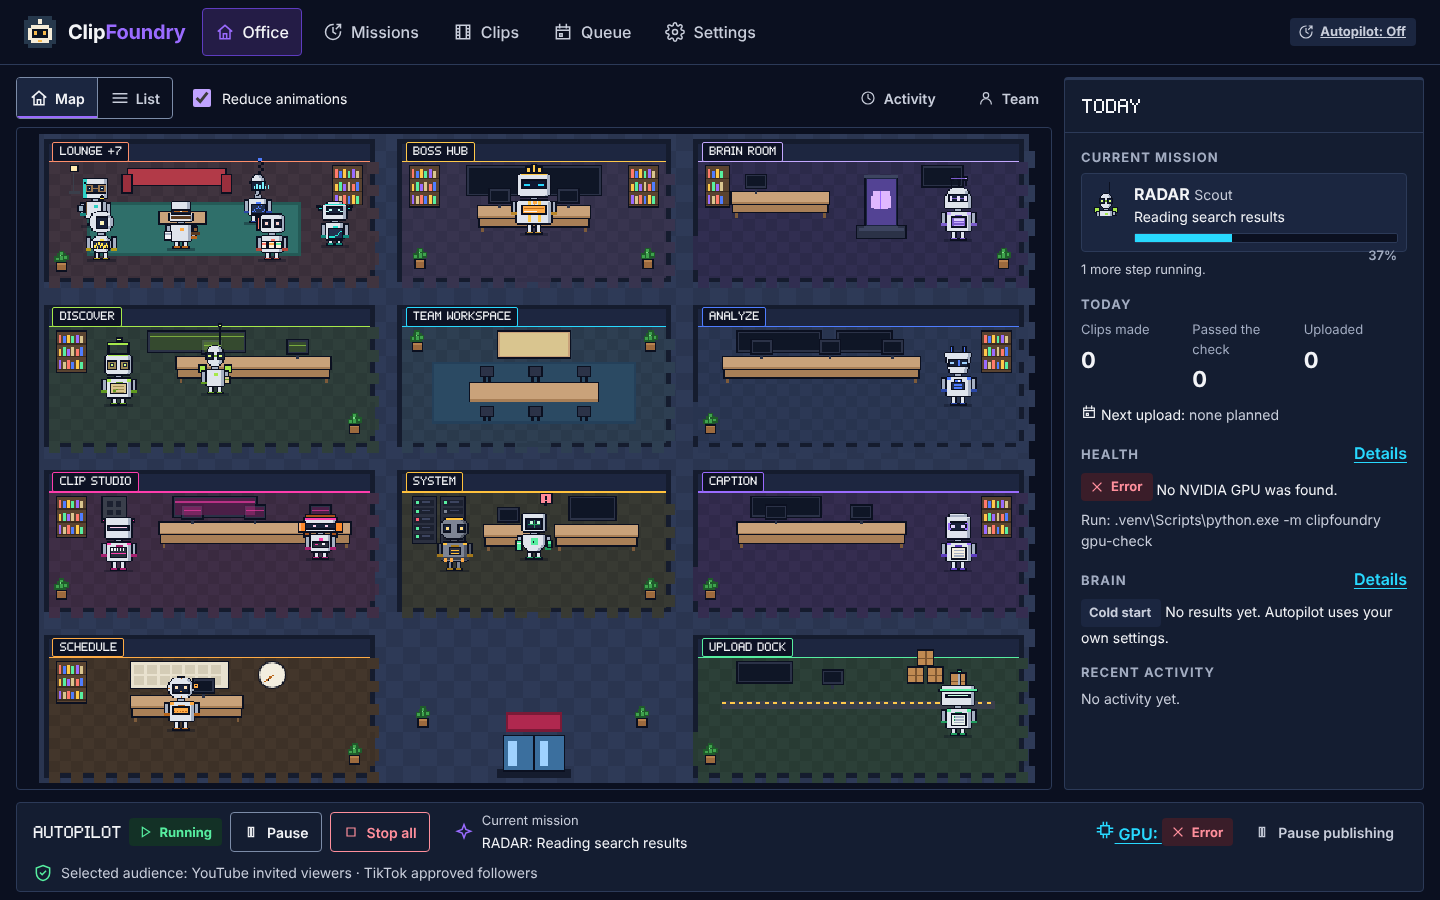
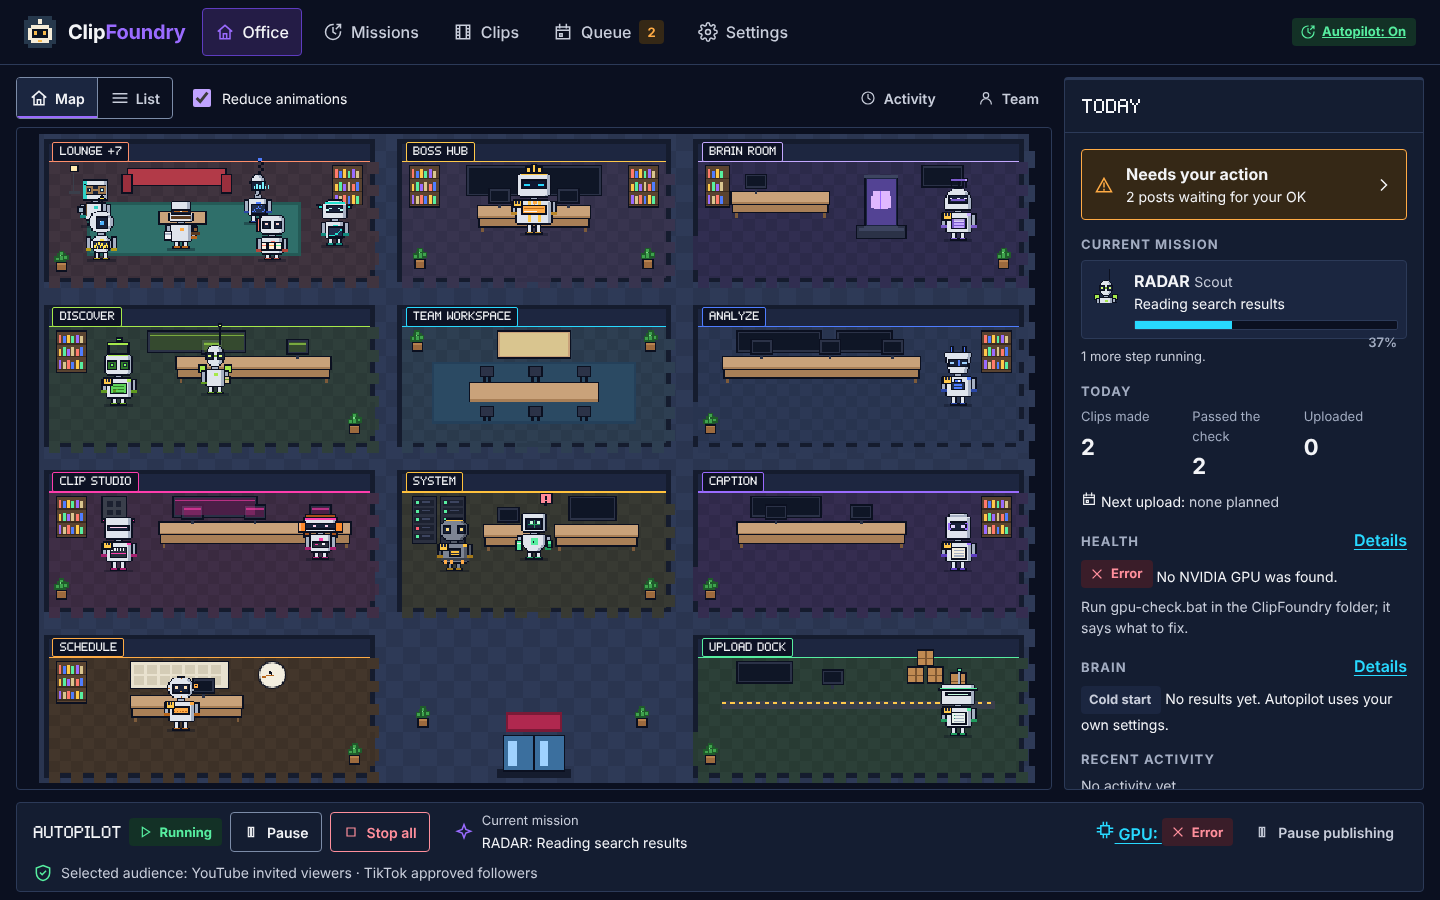
Docs for the review round: handoff, changelog, test log, screenshots
Records the 2026-10-08 review round of PR #14: AGENTS.md decisions (public video
discovery stays on, the beginner flow passes with it), docs/OFFICE.md (health,
Test connection, Brain audiences and guards), AI_CHANGELOG.md and the JSONL
checkpoint, AI_HANDOFF.md, the implementation status matrix and test log, and the
office screenshots re-taken by the sandbox browser run.

Claude-Session: https://claude.ai/code/session_01Np3o5HVp6KDTFccbFjReEz

diff --git a/docs/IMPLEMENTATION_STATUS.md b/docs/IMPLEMENTATION_STATUS.md
@@ -344,13 +344,19 @@ current platform**, **Incomplete**.
 | Selected audience on every upload path (no public, unlisted, Everyone; old public posts held; approvals bound to the audience stamp) | Implemented and tested | `tests/test_audience.py`, `test_autopilot_publish.py`, `test_youtube.py`, `test_tiktok.py`, sandbox complete loop |
 | YouTube upload as Private without `publishAt` | Implemented and tested (fake YouTube); live verification pending | needs a real upload on the owner's account |
 | YouTube viewer invitations | Unsupported by the current platform (no API) | handoff: the owner shares in YouTube Studio and presses *I shared it*; labeled as the owner's confirmation |
-| TikTok Direct Post to followers or friends | Needs credentials/user action | needs TikTok's audit of the owner's developer app; until then "Only me" is staging and the clip becomes a ready-to-post package |
+| TikTok Direct Post to followers or friends | Needs credentials/user action | needs TikTok's audit of the owner's developer app, unlikely for a personal tool that reposts other platforms' videos (TikTok's guidelines, rechecked 2026-10-08); until then "Only me" is staging and the clip becomes a ready-to-post package |
+| TikTok ready-to-post package | Implemented and tested | the post's page: download, copy caption, steps, then *Link the post…* or *I posted it, no link* (`test_a_package_posted_without_a_link_is_recorded_as_your_word`); branded content Friends only; a full inbox holds TikTok posts for a day |
+| Approvals bound to the connected account | Implemented and tested | `test_approvals_and_automatic_publishing_stay_with_the_account_they_were_given_for` |
 | TikTok results for follower-only posts | Unsupported by the current platform | TikTok's video list covers public posts only; Clips → Test feedback instead |
 | YouTube results for a private group | Implemented; live verification pending | the Data API counts are read; the Analytics API may report little for a small group |
 | Office: cast registry (1 + 8 + 16, CORE separate), event feed with cursor, reports, decisions, health, controls | Implemented and tested | `tests/test_office.py`; `e2e/sandbox/robot-office.spec.ts` (placement, carry and review, decision reaction, old events ignored, paused, lost connection, Reduce animations, 1280×720 and 1366×768 fit, no sideways scroll at 683 and 390 px) |
 | Office screens, Team, gallery, Integrations, Test feedback, Dev Log, new navigation | Implemented and tested | read-only `e2e` suite and sandbox flows; screenshots in `design/robot-office/screenshots` |
-| Distinct robots (25, four directions, all poses) | Implemented; owner's visual review pending | `design/robots/contact-sheet.png`; drawn in code from the reference sheets, compared by eye only |
-| Brain: provenance, null ≠ 0, idempotent imports, corrections, cohorts, 30-clip / 10% guards, rollback, clip length used by the next videos | Implemented and tested (synthetic data) | `tests/test_brain.py`; real learning needs 30 real clips from the owner's viewers |
+| Distinct robots (25, four directions, all poses) | Implemented; owner's visual review pending | `design/robots/contact-sheet.png`; compared with the reference sheets on 2026-10-08: crown badge for COMMAND and the managers, TRACKER, SPARK and PATCH colors fixed; simplified details listed in the review report |
+| Brain: provenance, null ≠ 0, idempotent imports, corrections, cohorts, 30-clip / 10% guards, rollback, clip length used by the next videos | Implemented and tested (synthetic data) | `tests/test_brain.py` (21 tests; on 2026-10-08: uploads nobody could watch excluded, maturity from sharing, per-platform rollback, rollback not undone, 20 per side, identical results inconclusive); real learning needs 30 real clips from the owner's viewers |
+| Brain: distinct people and one dominant video | Incomplete | plays are not people; one video can supply most clips once 5 videos exist; needs the owner's rule |
+| Health readings, Test connection, rate-limit cards | Implemented and tested (fake platforms) | `tests/test_office_health.py`; a real check needs the owner's accounts |
+| Trend and Source Score coverage and confidence; specific media-access reasons | Implemented and tested | `tests/test_scores_and_access.py` |
+| Rework routed to the responsible stage; audio/video sync check; Queue states retrying, waiting for results, platform-verified audience; experiment framework | Incomplete | not in this version |
 | Optional NVIDIA text AI | Implemented and tested (fake transport); Needs credentials/user action for live use | `tests/test_nvidia.py`; no real request was made, NVIDIA's current terms were not read live |
 | GPU transcription and rendering on the RTX 3050 | Implemented; live verification pending | **GPU runtime not verified here** (no NVIDIA GPU in the cloud machine). On the PC: `gpu-check.bat`, or `.venv\Scripts\python.exe -m clipfoundry gpu-check` in the ClipFoundry folder |
 | Twitch, Kick, Reddit, X, Instagram and podcast discovery connectors | Incomplete | not in this version (the capability matrix says so); a pasted public link still goes through the link importer where supported |
@@ -363,9 +369,10 @@ transcript instead of Whisper, real ffmpeg rendering, no GPU): one Start discove
 final check, uploads to the fake YouTube as Private (Needs you then asks to share it privately), reads results,
 changes nothing with too few of them (2 of 30 posts with real numbers), waits for a stream link across a worker
 restart and records it once the stream starts, with no duplicate upload, and the office shows the running,
-waiting, restarted and paused states. The beginner flow passes with
-public video discovery off; with the `eff96fb` default (on) it fails at its old expectation that uncovered videos are
-never clipped (it fails the same way on `eff96fb` itself); that waits for the owner's public-video decision.
+waiting, restarted and paused states. The beginner flow passes with public video discovery on (the owner's decision
+of 2026-10-08): public videos are clipped on the PC and pass the final check, are never planned or posted, a video
+that cannot be downloaded is reported, the beginner chooses who watches, and an agreement makes a creator's video
+plannable.
 
 ## Plan (highest priority first)
 
@@ -413,7 +420,9 @@ never clipped (it fails the same way on `eff96fb` itself); that waits for the ow
 27. [x] The robot office screens, Team and gallery, Integrations, Test feedback, Dev Log, new navigation, docs and
     handoff (2026-10-07/08, PR #14).
 28. [ ] The owner's review of PR #14 and the checks on the PC below (GPU, real uploads, Who watches, the office look).
-29. [ ] The owner's public-video decision; then align `e2e/sandbox/beginner-flow.spec.ts` with it.
+29. [x] The owner's public-video decision (keep it, 2026-10-08); `e2e/sandbox/beginner-flow.spec.ts` aligned.
+30. [x] Review round of 2026-10-08 (`cf54204`): gaps against the master prompt, TikTok package flow, account-bound
+    approvals, Brain guards, health and Test connection, score confidence, media-access reasons, robots.
 
 ## Test log
 
@@ -556,6 +565,12 @@ never clipped (it fails the same way on `eff96fb` itself); that waits for the ow
 | robot office (2026-10-08) | `robot-office.spec.ts` and `zero-touch-loop.spec.ts` again after the fix | 5 passed (8.1 min) |
 | robot office (2026-10-08) | `beginner-flow.spec.ts` on `eff96fb` itself, in a separate worktree | failed at *nothing uncovered is ever clipped*: the same failure exists before this work (public video discovery default on) |
 | robot office (2026-10-08) | `beginner-flow.spec.ts` on this branch with `autopilot_public_videos` turned off by a temporary, uncommitted line | 1 passed (1.0 min) |
+| review round (2026-10-08) | `beginner-flow.spec.ts` on this branch with public video discovery on (the default), after the test learned to confirm who watches in Settings → Integrations | 1 passed (4.0 min) |
+| review round (2026-10-08) | new suites `test_brain.py` (21, 7 new), `test_office_health.py` (9), `test_scores_and_access.py` (29), the account-binding and START-twice tests | pass; the new ones failed before their fixes |
+| review round (2026-10-08) | `pytest -m "not slow"` on `cf54204` | 597 passed, 7 slow deselected (329 s) |
+| review round (2026-10-08) | `pytest -m slow` on `cf54204` | 7 passed (724 s); real ffmpeg and eSpeak NG, imported transcripts, fake platforms, no GPU |
+| review round (2026-10-08) | `npx tsc --noEmit` and `npm run build` in `frontend/` | pass; committed `dist/` (index-C1kfHSbU.js) |
+| review round (2026-10-08) | `npm run test:sandbox` on `cf54204` (Chromium at `/opt/pw-browsers/chromium`) | 9 passed (10.1 min): beginner flow, motion 3, robot office 4, complete loop |
 
 ## Checklist for the user's machine
 

diff --git a/docs/OFFICE.md b/docs/OFFICE.md
@@ -101,9 +101,13 @@ when paused). Each one calls the same code as the Missions buttons, so no check 
 
 ## Health
 
-`GET /api/office/health` (`clipfoundry/office/health.py`): the scheduler, the oldest waiting job, the GPU, ffmpeg,
-disk space, the database, the accounts, audience incidents and API quotas, each Healthy, Degraded, Error or Unknown
-with the reason and what to do. The overall status is the worst reading; Unknown appears only when nothing is worse.
+`GET /api/office/health` (`clipfoundry/office/health.py`): the scheduler, the oldest waiting job, discovery, the
+GPU, ffmpeg, disk space, the database, the accounts, audience incidents and API quotas, each Healthy, Degraded, Error
+or Unknown with the reason and what to do. A GPU error newer than the last GPU transcription is Error; a CPU fallback
+is Degraded. No connected account is information, not a problem. Discovery is Error when Autopilot is on with nowhere
+to look, and Degraded when the last search is more than twice its period overdue. The overall status is the worst
+reading that counts. When the office loses its connection, every reading shows *Unknown — not updating* instead of
+its last value.
 
 ## Who may watch an upload (selected audience)
 
@@ -139,7 +143,11 @@ retries, resumed uploads, and posts planned before this version.
 Settings → Integrations shows, per connection, three separate things: whether this version implements a capability,
 whether an account or key is connected, and whether the capability is available now. A connected account does not
 make every capability available, and signing in never grants downloads or full analytics. The registry is
-`clipfoundry/office/capabilities.py` (`GET /api/integrations` returns it with the cards):
+`clipfoundry/office/capabilities.py` (`GET /api/integrations` returns it with the cards). Each connected account's
+card has **Test connection** (`POST /api/integrations/youtube/test` or `/tiktok/test`): one read with the stored
+account (YouTube `channels.list`, 1 quota unit; TikTok `creator_info`, or user info without Direct Post) that never
+uploads or changes anything. The card shows the last successful check, a failed check's reason and what to do, and a
+platform's wait (*Rate limited until*) read from where the code records it:
 
 | Platform | Capability | State | What it means |
 | --- | --- | --- | --- |
@@ -157,7 +165,7 @@ make every capability available, and signing in never grants downloads or full a
 | TikTok | Reads titles and numbers | Implemented | Creator and title from TikTok's public embed endpoint; no view counts. |
 | TikTok | Transcript | On this PC | Made on this PC with Whisper. |
 | TikTok | Gets the video file | Implemented | Only where the video is accessible to the link importer; nothing is bypassed. |
-| TikTok | Uploads | Needs platform approval | Direct Post to your followers needs TikTok's app audit. Without it ClipFoundry sends a draft to your TikTok inbox or prepares a ready-to-post package. |
+| TikTok | Uploads | Needs platform approval | Direct Post to your followers needs TikTok's app audit, and TikTok's guidelines turn away personal tools and apps that repost other platforms' videos, so expect a refusal. Inbox drafts also need TikTok to approve the app (at most 5 waiting). Otherwise ClipFoundry prepares a ready-to-post package that you post in the TikTok app. |
 | TikTok | Who can watch | Needs platform approval | Followers or friends on a private account (audited apps); an unaudited app can only post 'Only me', which is staging, not a test. |
 | TikTok | Your OK | Implemented | Your OK on every post (TikTok requires it). |
 | TikTok | Checks the result | Implemented | The post's publish status is read back; follower-only posts may not return a link. |
@@ -239,14 +247,25 @@ transcript after it).
   zero. Imports are previewed, then imported once; the same reading entered twice counts once, and a correction
   keeps the earlier values. One answer per tester per clip. Mirrored YouTube API readings follow the 30-day rule.
 * **Audiences kept apart.** Results are grouped by platform, audience (selected viewers, only you, earlier public
-  posts) and audience-group version. Only selected-viewer results may change a strategy, and only for that group.
-* **Guards.** A strategy changes only with at least 30 mature clips (48 hours old) from at least 5 videos in one
-  group, with at least 10 on each side of the comparison; it moves at most 10% per update
-  (`brain_min_clips` ≥ 30, `brain_max_step` ≤ 0.10, Settings → Advanced → Brain); it waits for results of the new
-  setting before moving again, and rolls back when later results are worse. You can pause it, roll back a change or
-  reset it. CORE cannot override privacy, credentials, cost limits, stop controls or the safety checks.
+  posts, or *unconfirmed*: meant for your viewers but they cannot watch it yet, such as a Private upload nobody was
+  invited to or a TikTok package not posted yet) and audience-group version. Only selected-viewer results may change
+  a strategy, and only for that group. A post counts as mature 48 hours after your viewers could watch it (the upload,
+  or later when you said you shared it or linked the post you made yourself).
+* **Guards.** A strategy changes only with at least 30 mature clips from at least 5 videos in one group, each with
+  at least `brain_min_views` views, and at least 20 clips on each side of the comparison (`MIN_ARM`); identical
+  results on a side count as inconclusive. It moves at most 10% per update (`brain_min_clips` ≥ 30,
+  `brain_max_step` ≤ 0.10, Settings → Advanced → Brain); it waits for 10 clips with results of the new setting before
+  moving again, and rolls back when later results are worse. Each platform keeps its own strategy and rolls back on
+  its own; a learned clip length is used only when every enabled platform learned the same value. You can pause it,
+  roll back a change or reset it, and the same results cannot undo your rollback or reset (the next change waits for
+  10 new clips). CORE cannot override privacy, credentials, cost limits, stop controls or the safety checks.
+* **Known limits.** "Views" are plays, not people: 10 plays by 2 people pass the views threshold, and the same 3
+  testers rating many clips count as many results. The count needs 5 different videos, but one video can still
+  supply most of the clips. Both are product decisions (a rule for how many different people), not yet made.
 * **What it changes.** The clip length the next videos Autopilot starts are cut for. The older learner
-  (`learner.py`, score weights) follows the same 30-post and 10% guards.
+  (`learner.py`, posting times, styles and score weights) follows the same 30-post, 10%, views and 5-video guards,
+  but still accepts readings from 20 hours on (not 48) and treats posts without an audience-group number as the
+  current group.
 
 ## Optional NVIDIA AI
 

diff --git a/AI_HANDOFF.md b/AI_HANDOFF.md
@@ -15,10 +15,11 @@ results, and NVIDIA's hosted AI is an optional extra. Local-first; the GPU path 
 
 * `claude/wonderful-ritchie-909tq3` is the default ("usual") branch, at `eff96fb` (public video discovery, pushed
   from outside the project on 2026-10-03).
-* `claude/project-thread-vw1n9y` (draft PR #14) holds this build: `26f6b8f` (backend) and the commit that adds this
-  file (screens, docs). Not merged; merging needs the owner's word.
-* `codex/retro-robot-autopilot` and `claude/ecstatic-shannon-wb1zq1` are unmerged outside work. Don't merge them
-  without the owner's decision on public videos.
+* `claude/project-thread-vw1n9y` (draft PR #14) holds this build: `26f6b8f` (backend), `f71238c` (screens, docs),
+  `cf54204` (the review round of October 8) and its docs commit. Not merged; merging needs the owner's word after
+  the PC checks.
+* `codex/retro-robot-autopilot` and `claude/ecstatic-shannon-wb1zq1` are unmerged outside work. The owner did not ask
+  for them to be merged.
 
 ## Architecture in one screen
 
@@ -34,11 +35,9 @@ results, and NVIDIA's hosted AI is an optional extra. Local-first; the GPU path 
 
 ## Verified here (cloud machine: Linux, Chromium, no GPU, no accounts)
 
-* `pytest -m "not slow"`: 545 passed. `pytest -m slow`: 7 of 7 after updating two tests that still expected
-  `publishAt`. Details in the test log of `docs/IMPLEMENTATION_STATUS.md`.
-* Sandbox browser tests (`cd e2e && npm run test:sandbox`, Chromium at `/opt/pw-browsers/chromium`): robot office 4
-  of 4, motion 3 of 3, complete loop 1 of 1 passed. Beginner flow: fails at its rights expectation (below).
-* Read-only browser suite against a sandbox: passed after two locator fixes (see the test log).
+* On `cf54204`: `pytest -m "not slow"` 597 passed; `pytest -m slow` 7 passed (724 s); sandbox browser tests
+  (`cd e2e && npm run test:sandbox`, Chromium at `/opt/pw-browsers/chromium`) 9 passed (10.1 min), including the
+  beginner flow with public video discovery on. Details in the test log of `docs/IMPLEMENTATION_STATUS.md`.
 * Screenshots: `design/robot-office/screenshots/` (README there says which are real and which controlled).
 
 ## Not verified (must be checked on the owner's PC)
@@ -50,12 +49,15 @@ NVIDIA requests and NVIDIA's current terms, Windows fonts and display scaling. C
 
 ## Known problems and open decisions
 
-* **Public video discovery** (`autopilot_public_videos`, default on since `eff96fb`) clips videos nobody gave reuse
-  rights to (they are never scheduled or posted). The owner has not confirmed this design in the project.
-  `e2e/sandbox/beginner-flow.spec.ts` still expects such videos never to be clipped: it fails on `eff96fb` and on
-  this branch, and passes with the setting off. Align the test after the owner decides.
-* TikTok Direct Post to followers needs TikTok's audit, which a personal tool may not get; the ready-to-post package
-  and inbox draft are the fallback.
+* **Public video discovery** stays on (owner, 2026-10-08): public videos are clipped on the PC, never planned or
+  posted without reuse coverage. The beginner flow tests exactly that.
+* TikTok: the audit for Direct Post is unlikely (TikTok's guidelines turn away personal tools and apps that repost
+  other platforms' videos); inbox drafts need app approval too. The ready-to-post package, posted by the owner and
+  linked or marked posted on the post's page, is the realistic path.
+* Open gaps against the master prompt (report of 2026-10-08 in the project files and `IMPLEMENTATION_STATUS.md`):
+  rework does not return to the responsible stage, no audio/video sync check, the Queue does not show retrying,
+  waiting-for-results or platform-verified audience states, no general experiment framework, the Brain's
+  plays-versus-people and one-dominant-video limits, the learner's 20-hour readings, simplified robot details.
 * Not built from the prompt: discovery connectors for Twitch, Kick, Reddit, X, Instagram and podcasts; Google Trends
   (no supported API); preview-based screening before download. The capability matrix says so in the app.
 * The website (`docs/legal`) is not deployed; that needs the owner's OK. The privacy page was updated for this build.
@@ -69,7 +71,8 @@ dependencies, keep `e2e/tests` read-only.
 
 ## Next useful work
 
-1. The owner reviews PR #14 and runs the PC checklist (GPU check, one real Private upload, Who watches).
-2. The public-video decision, then the beginner-flow test.
+1. The owner runs the PC test steps (`/mnt/project-files/clipfoundry/pc-test-steps-pr14.md` in the project files:
+   a separate copy with its own data, no accounts) and reviews PR #14.
+2. The open gaps above, in the order the owner picks.
 3. If the owner wants them: more discovery connectors where a platform offers a supported API, and a cheap preview
    screen (hook and payoff from a short excerpt) before the full download.

diff --git a/AI_CHANGELOG.md b/AI_CHANGELOG.md
@@ -7,6 +7,37 @@ read-only in Settings → Advanced → Dev Log). Work before October 7, 2026 is 
 
 Commit ids are snapshots of a branch at the time of writing; fetch before relying on them.
 
+## 2026-10-08 · PR #14 review round
+
+* **Tool:** Claude Code (cloud session). **Branch:** `claude/project-thread-vw1n9y` (draft PR #14), on top of
+  `f71238c`. **Result commits:** `cf54204` (code) and the commit that adds this entry (docs).
+* **What changed**
+  * Public video importing stays on (owner, 2026-10-08). The beginner browser test now expects public videos to be
+    clipped on the PC, to pass the final check and never to be planned or posted; the beginner answers *who
+    watches* before anything is planned. A rule recorded after a video was clipped now reaches that video.
+  * TikTok: a post-it-yourself page for the ready-to-post package (download, copy caption, steps, then link the post
+    or mark it posted, `POST /scheduled/{id}/posted`); branded content only for Friends; a full inbox (5 pending
+    drafts) holds TikTok posts for a day; labels that don't claim who could see a post. *I shared it* updates the
+    post itself; held public posts can be sent to the selected viewers from their page.
+  * Approvals and the automatic-publishing permission name the connected account; another account connected means a
+    new approval. START pressed again before its work ran queues nothing new.
+  * Brain and learner: uploads nobody else could watch are not evidence (*unconfirmed*), maturity counts from
+    sharing, each platform rolls back on its own, a rollback or reset is not undone by the same results, 20 clips
+    per side, identical results are inconclusive, the learner needs views and 5 videos.
+  * Health: GPU errors and CPU fallback, accounts as information, *Unknown — not updating* when the feed is lost, a
+    size-bounded `workers.log`, discovery stalls. Integration cards: Test connection, last check, rate limits.
+  * Trend and Source Scores: missing parts count as neutral, with coverage, confidence and the missing parts stored.
+    Video access failures carry one of 13 reasons; a named wait is honored, temporary problems are retried.
+  * Robots: the crown badge of COMMAND and the managers, TRACKER green, SPARK's blue eye, PATCH's orange lamp;
+    contact sheet re-captured. Setup and Sources text no longer say other people's videos are skipped.
+  * Docs: privacy page (Test connection result, log sizes, the account an approval names, posts you made yourself),
+    `docs/OFFICE.md`, `docs/PLATFORM_CAPABILITIES.md`, INSTALL and README (TikTok), AGENTS.md decisions, this file,
+    `AI_HANDOFF.md`, `docs/IMPLEMENTATION_STATUS.md`.
+* **Why:** the owner's follow-up of October 8, 2026 (compare with the spec, fix the beginner test without disabling
+  public videos, recheck TikTok, verify the Brain, steps to test on the PC).
+* **Tests run:** listed in the JSONL entry and in `docs/IMPLEMENTATION_STATUS.md` (test log).
+* **Not verified:** GPU on the RTX 3050, real YouTube and TikTok accounts, TikTok's decision on the app, Windows.
+
 ## 2026-10-07 · The robot office screens, docs and handoff
 
 * **Tool:** Claude Code (cloud session). **Branch:** `claude/project-thread-vw1n9y` (draft PR #14), on top of

diff --git a/design/robot-office/screenshots/README.md b/design/robot-office/screenshots/README.md
@@ -1,6 +1,6 @@
 # Office screenshots
 
-Taken on October 7, 2026 in the cloud test machine, at 1366×768 (Team: full page). All but `team.png` come from
+Taken on October 8, 2026 in the cloud test machine, at 1366×768 (Team: full page). All but `team.png` come from
 the sandbox browser tests (`cd e2e && npm run test:sandbox`), which overwrite them on every run. The sandbox is a
 throwaway copy of the app with fake YouTube and TikTok services and a made-up transcript instead of Whisper. That
 machine has no NVIDIA GPU, so the GPU reading says *Error: No NVIDIA GPU was found* in every picture: that is the
